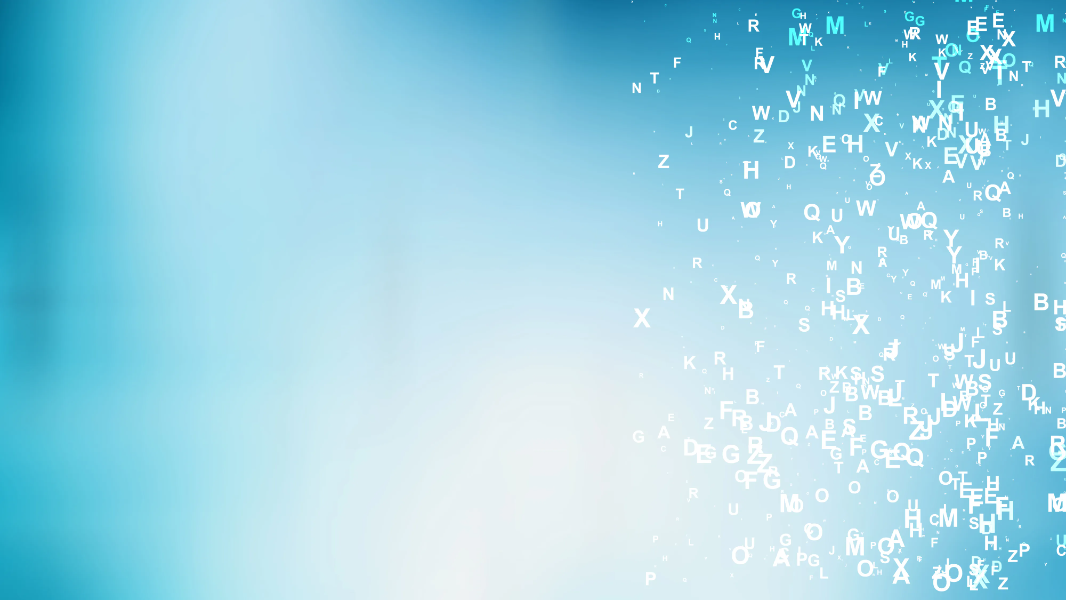
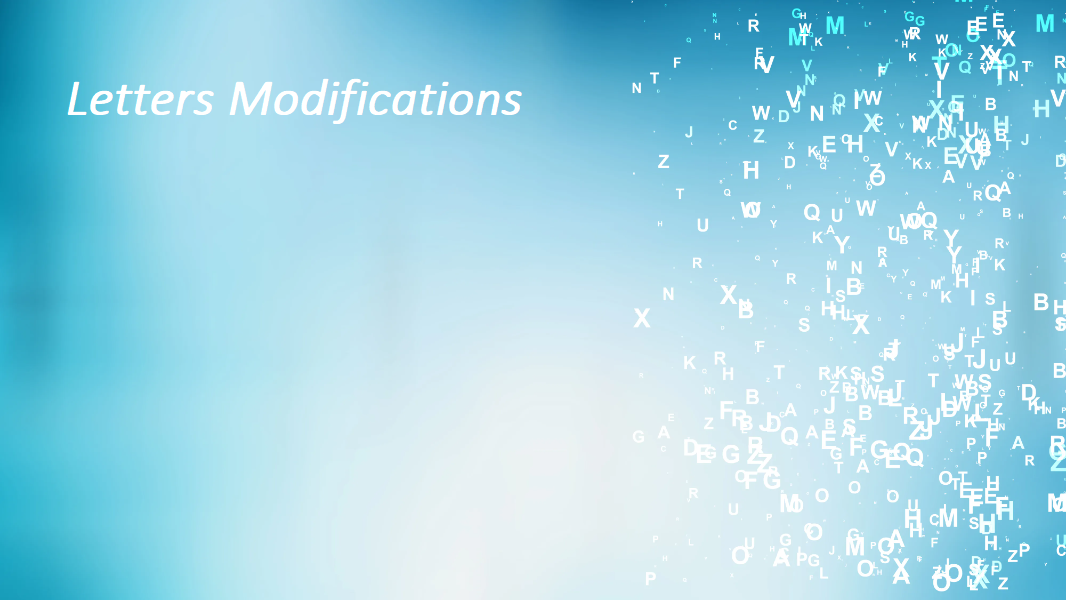
buttons move, background replaced

Changed region(s): [[0.0619, 0.12, 0.4953, 0.21]]

diff --git a/main.py b/main.py
@@ -9,6 +9,7 @@ def main():
 
     root = tk.Tk()
     root.geometry("900x600")
+    root.title('Letters Modifications')
 
     backgrounding = tk.PhotoImage(file="beautiful_Gui/image.png")
     label = tk.Label(root, image=backgrounding)
@@ -31,39 +32,32 @@ def main():
     letter_menu = tk.OptionMenu(root, clicked, *options.keys())
     letter_menu.config(bg="GRAY", fg="WHITE", width=30, height=2)
     letter_menu["menu"].config(bg="WHITE")
-    letter_menu.place(x=350, y=150)
+    letter_menu.place(x=180, y=170)
 
     def check_picked_letter(*args):
         global action
         for i, j in options.items():
             if i == clicked.get():
                 action.url_setter(j)
-                # img_path_entry = j
                 break
 
     clicked.trace('w', check_picked_letter)
-    # img_path_entry = tk.Entry()
-    # img_path_entry.focus_set()
 
     b_mirror_button = TkinterCustomButton(text="Mirror", corner_radius=0, command=action.mirroring)
     b_tilt_button = TkinterCustomButton(text="Tilt", corner_radius=0, command=action.tilt)
-    # b_round_button = TkinterCustomButton(text="Round", corner_radius=0, command=click)
-    # b_stretch_button = TkinterCustomButton(text="Stretch", corner_radius=0, command=click)
     b_blurring_button = TkinterCustomButton(text="Blur", corner_radius=0, command=action.blurring)
     b_waves_button = TkinterCustomButton(text="Waves", corner_radius=0, command=action.waves)
     b_rotate_button = TkinterCustomButton(text="Rotate", corner_radius=0, command=action.rotate)
     b_erosion_button = TkinterCustomButton(text="Erosion", corner_radius=0, command=action.erosion)
     b_dilation_button = TkinterCustomButton(text="Dilation", corner_radius=0, command=action.dilation)
 
-    b_mirror_button.place(x=100, y=300)
-    b_tilt_button.place(x=250, y=400)
-    # b_round_button.place(x=300, y=300)
-    # b_stretch_button.place(x=400, y=400)
-    b_blurring_button.place(x=400, y=300)
-    b_waves_button.place(x=550, y=400)
-    b_rotate_button.place(x=700, y=300)
-    b_erosion_button.place(x=300, y=500)
-    b_dilation_button.place(x=500, y=500)
+    b_mirror_button.place(x=150, y=300)
+    b_tilt_button.place(x=80, y=400)
+    b_blurring_button.place(x=320, y=300)
+    b_waves_button.place(x=240, y=400)
+    b_rotate_button.place(x=400, y=400)
+    b_erosion_button.place(x=150, y=500)
+    b_dilation_button.place(x=320, y=500)
 
     root.mainloop()
 
